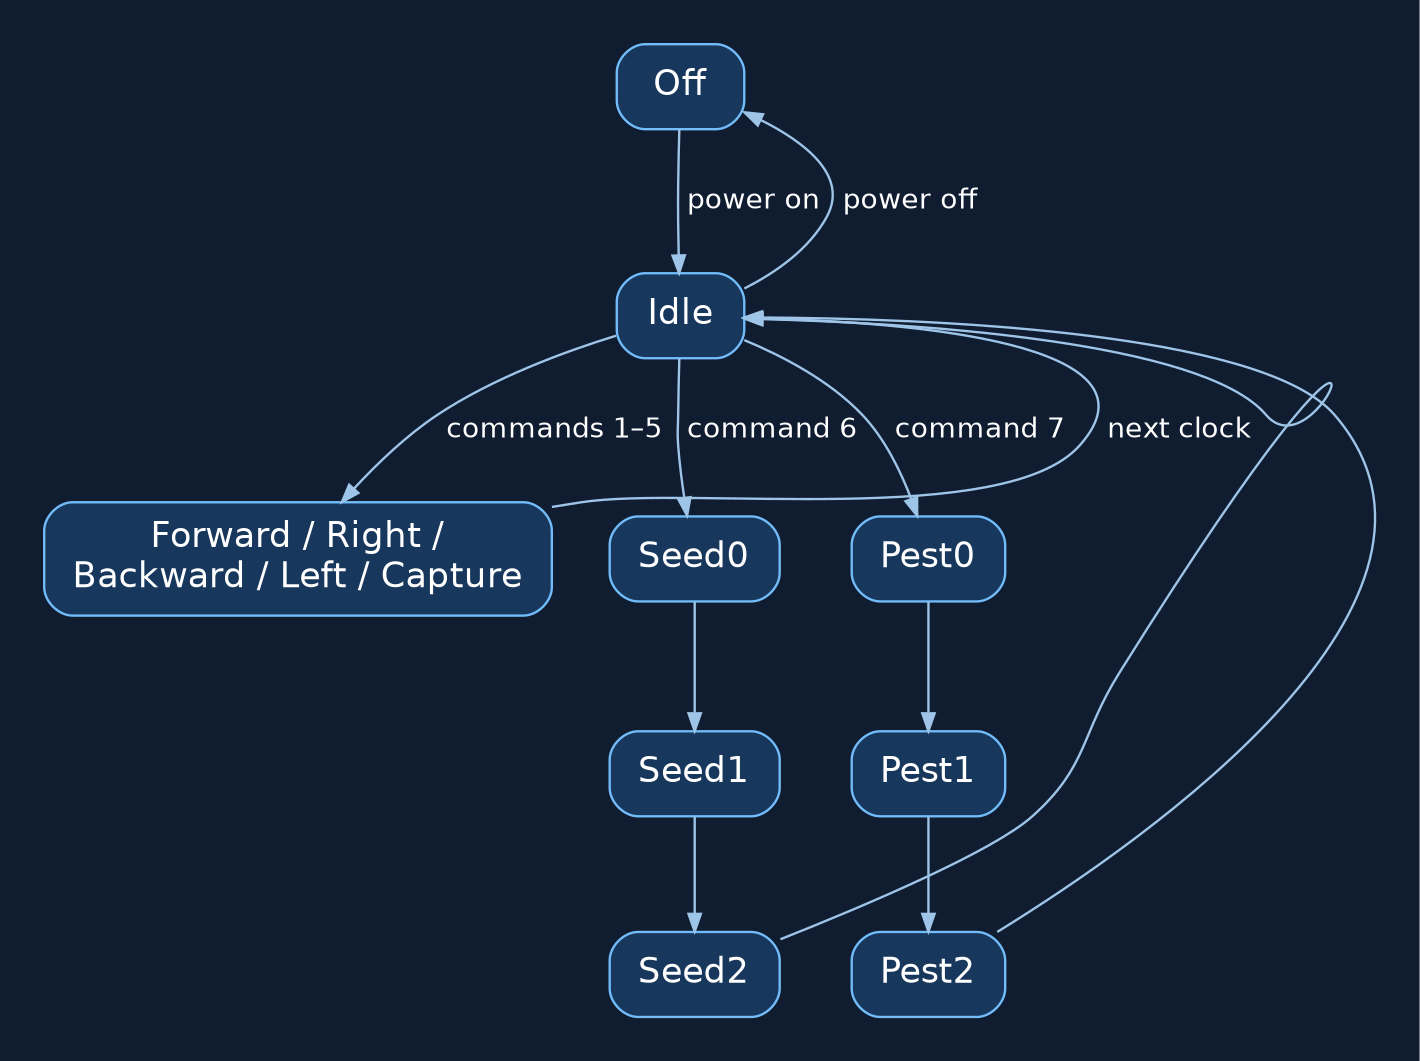
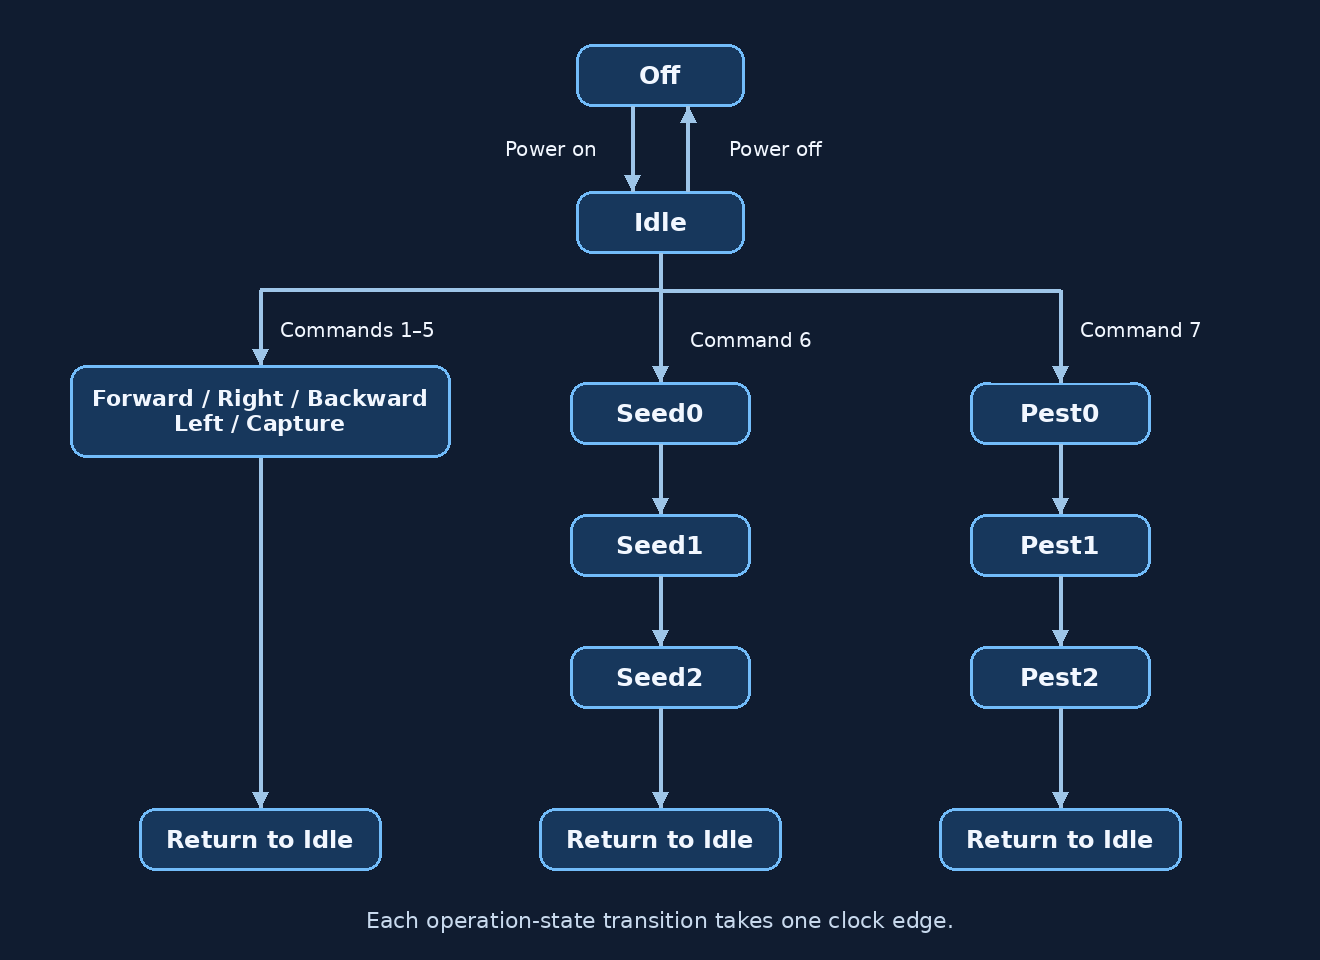
diagram and language updates

diff --git a/projects/barrel-shifter.html b/projects/barrel-shifter.html
@@ -15,7 +15,7 @@
             <h1>8-Bit CMOS Barrel Shifter</h1>
             <p>Designed and verified the shifter block for a team datapath.</p>
         </header>
-        <section><h2>Circuit design</h2><p>I designed the shifter for our team’s 8-bit datapath. Staged multiplexer rows form a bidirectional rotation core, and output masking clears vacated bits for logical shifts.</p></section><section><h2>Layout and verification</h2><p>I created the layout in Cadence Virtuoso and checked it against its schematic with LVS. I simulated the rotation core and checked one- and two-bit logical shifts with the masking circuitry in place. The shifter block passed LVS.</p></section>
+        <section><h2>Circuit design</h2><p>I was able to design the shifter for our team’s 8-bit datapath. Staged multiplexer rows form a bidirectional rotation core, and output masking clears vacated bits for logical shifts.</p></section><section><h2>Layout and verification</h2><p>I created the layout in Cadence Virtuoso and checked it against its schematic with LVS and simulated the rotation core, checked one- and two-bit logical shifts with the masking circuitry in place. The shifter block passed LVS.</p></section>
         <figure>
                 <a href="../Pics/barrel-shifter-layout.png"><img src="../Pics/barrel-shifter-layout.png" alt="Full shifter layout, including the multiplexer rows and output masking logic."></a>
                 <figcaption>Full shifter layout, including the multiplexer rows and output masking logic.</figcaption>
@@ -30,7 +30,7 @@
         <section>
             <h2>Team datapath integration</h2>
             <p>Our Spartan-8b design connects a two-read-port, one-write-port SRAM register file, an 8-bit ALU and the barrel shifter. The register file supplies operands, the ALU performs arithmetic and logic, and the shifter handles bit movement.</p>
-            <p>The team poster reports that the complete layout passed LVS. The individual blocks achieved their expected functionality during testing. Full datapath functionality remained incomplete at the end of the project.</p>
+            <p>The team poster reports that the complete layout passed LVS. The individual blocks achieved their expected functionality during testing but full datapath functionality remained incomplete at the end of the project.</p>
         </section>
         <figure>
             <a href="../Pics/team-datapath-layout.png"><img src="../Pics/team-datapath-layout.png" alt="Cadence layout of the complete Spartan-8b datapath." loading="lazy"></a>

diff --git a/projects/drone-controller.html b/projects/drone-controller.html
@@ -15,7 +15,7 @@
             <h1>Agricultural Drone Controller</h1>
             <p>Simulated a 13-state controller with single-bit command error correction.</p>
         </header>
-        <section><h2>Command decoding</h2><p>I built a Hamming (7,4) decoder that uses parity checks to correct a single-bit error in an incoming command. The corrected command feeds the finite-state machine.</p></section><section><h2>State sequencing</h2><p>The 13-state controller handles power, movement and multi-cycle operations. Separate output logic updates the propeller power, action signals and seven-segment display.</p></section><section><h2>Simulation</h2><p>I used a Verilog testbench to exercise the state machine and inspected the Vivado waveform to verify the order and timing of state changes and outputs.</p></section>
+        <section><h2>Command decoding</h2><p>For this project in ECE 230, I built a Hamming (7,4) decoder that uses parity checks to correct a single-bit error in an incoming command. The corrected command feeds the finite-state machine.</p></section><section><h2>State sequencing</h2><p>The 13-state controller handles power, movement and multi-cycle operations. Separate output logic updates the propeller power, action signals and seven-segment display.</p></section><section><h2>Simulation</h2><p>I used a Verilog testbench to exercise the state machine and inspected the Vivado waveform to verify the order and timing of state changes and outputs.</p></section>
         <figure>
                 <a href="../Pics/drone-fsm-waveform.png"><img src="../Pics/drone-fsm-waveform.png" alt="Vivado waveform showing the controller’s state and outputs as test commands are applied."></a>
                 <figcaption>Vivado waveform showing the controller’s state and outputs as test commands are applied.</figcaption>

diff --git a/index.html b/index.html
@@ -56,9 +56,9 @@
                   <div class="contact-info">
                     <span class="email">Email: </span>
                     <span class="email-val">williamleggiv@gmail.com</span>
-                    <!--<span class="separator"></span>
+                    <span class="separator"></span>
                     <span class="phone">Phone: </span>
-                    <span class="phone-val">248-794-6488</span>-->
+                    <span class="phone-val">248-794-6488</span>
                   </div>
                   
                   <!--<div class="about">
@@ -80,7 +80,7 @@
                             </div>
                             <div class="right">
                               <div class="name">Computer Engineering</div>
-                              <div class="desc"><ul><li>Honors College</li></ul></div>
+                              <!-- <div class="desc"><ul><li>Honors College</li></ul></div> -->
                             </div>
                           </div>
                           <div class="section__list-item">
@@ -106,7 +106,7 @@
                           <div class="duration">June 2024 - Present</div>
                         </div>
                         <div class="right">
-                          <div class="name">Student Exhibition Prep Assistant</div>
+                          <div class="name">Exhibition Prep Assistant</div>
                           <div class="desc"></div>
                         </div>
                       </div>

diff --git a/projects/matlab-controls.html b/projects/matlab-controls.html
@@ -15,7 +15,7 @@
             <h1>MATLAB Controller Comparison</h1>
             <p>Compared proportional and PD controllers using simulated step responses.</p>
         </header>
-        <section><h2>System model</h2><p>I modeled the plant 1/[s(s + 1)] with unity feedback and compared proportional control with a proportional-derivative design.</p></section><section><h2>Response comparison</h2><p>I used step plots and stepinfo to compare settling time and overshoot. The PD design targeted a shorter settling time. The plot shows the simulated response of both designs to the same unit-step input.</p></section>
+        <section><h2>System model</h2><p>I was able to model the plant 1/[s(s + 1)] with unity feedback and compared proportional control with a proportional-derivative design.</p></section><section><h2>Response comparison</h2><p>I used step plots and stepinfo to compare settling time and overshoot. The PD design targeted a shorter settling time. The plot shows the simulated response of both designs to the same unit-step input.</p></section>
         <figure>
                 <a href="../Pics/matlab-step-response.png"><img src="../Pics/matlab-step-response.png" alt="Step responses reproduced from the transfer functions in the MATLAB exercise. The shaded band marks ±2% of steady state."></a>
                 <figcaption>Step responses reproduced from the transfer functions in the MATLAB exercise. The shaded band marks ±2% of steady state.</figcaption>

diff --git a/styles.css b/styles.css
@@ -51,7 +51,7 @@ h1, h2 {
     text-align: center;
     font-size: 8rem;
     font-weight: 700;
-    font-family: "Lato", Helvetica, Arial, sans-serif;
+    /* font-family: "Lato", Helvetica, Arial, sans-serif; */
     color: var(--main-text);
 }
 
@@ -582,7 +582,12 @@ img {
 }
 
 
-h1, h2, h3, .project-title, .section__title {
+h1, h2, h3,
+.project-title,
+.section__title,
+.header .full-name,
+.nav-list li a,
+.topnav a {
     font-family: Domine, Georgia, serif;
 }
 
